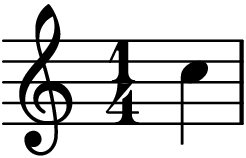
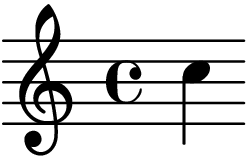
big progress

diff --git a/sheet-music-quiz/toene/images/toene_images_generator.py b/sheet-music-quiz/toene/images/toene_images_generator.py
@@ -48,14 +48,15 @@ def generate_sheetmusic(path=CURRENT_PATH, note: str="c''", tonart: str="c", min
     voice = abjad.Voice(note, name="RH_Voice")
     staff = abjad.Staff([voice], name="RH_Staff")
     score = abjad.Score([staff], name="Score")
-    time_signatures = [(2, 4), (1, 4), (3, 4), (4, 4), (6, 8), (12, 8)]
-    abjad.attach(abjad.TimeSignature(random.choice(time_signatures)), voice[0])
+    # time_signatures = [(2, 4), (1, 4), (3, 4), (4, 4), (6, 8), (12, 8)]
+    # abjad.attach(abjad.TimeSignature(random.choice(time_signatures)), voice[0])
     key_signature = abjad.KeySignature(
         abjad.NamedPitchClass(tonart), abjad.Mode(mode)
     )
     abjad.attach(key_signature, voice[0])
     clef = abjad.Clef(clef)
     abjad.attach(clef, voice[0])
+    
     
     obstructed_note: str = note.replace("'", "+")
     filename: str = f"{int(clef=='bass')}{obstructed_note}.png"
@@ -79,9 +80,49 @@ def generate_sheetmusic(path=CURRENT_PATH, note: str="c''", tonart: str="c", min
 
 if __name__ == "__main__":
     VIOLIN_NOTEN = [
-        "c''",
-        "d''"
+        "a",
+        "b", 
+        "c'", 
+        "d'", 
+        "e'", 
+        "f'",
+        "g'", 
+        "a'",
+        "b'", 
+        "c''", 
+        "d''", 
+        "e''", 
+        "f''",
+        "g''", 
+        "a''",
+        "b''",
+        "c'''"
+    ]
+    BASS_NOTEN = [
+        "c,", 
+        "d,", 
+        "e,", 
+        "f,",
+        "g,", 
+        "a,",
+        "b,", 
+        "c", 
+        "d", 
+        "e", 
+        "f",
+        "g", 
+        "a",
+        "b", 
+        "c'", 
+        "d'", 
+        "e'", 
+        "f'",
+        "g'"
     ]
     for violin_note in VIOLIN_NOTEN:
         generate_sheetmusic(note=violin_note, clef="treble", tonart="c", minor=False)   
+    for bass_note in BASS_NOTEN:
+        generate_sheetmusic(note=bass_note, clef="bass", tonart="c", minor=False)
+        
+    
     delete_leftover()
